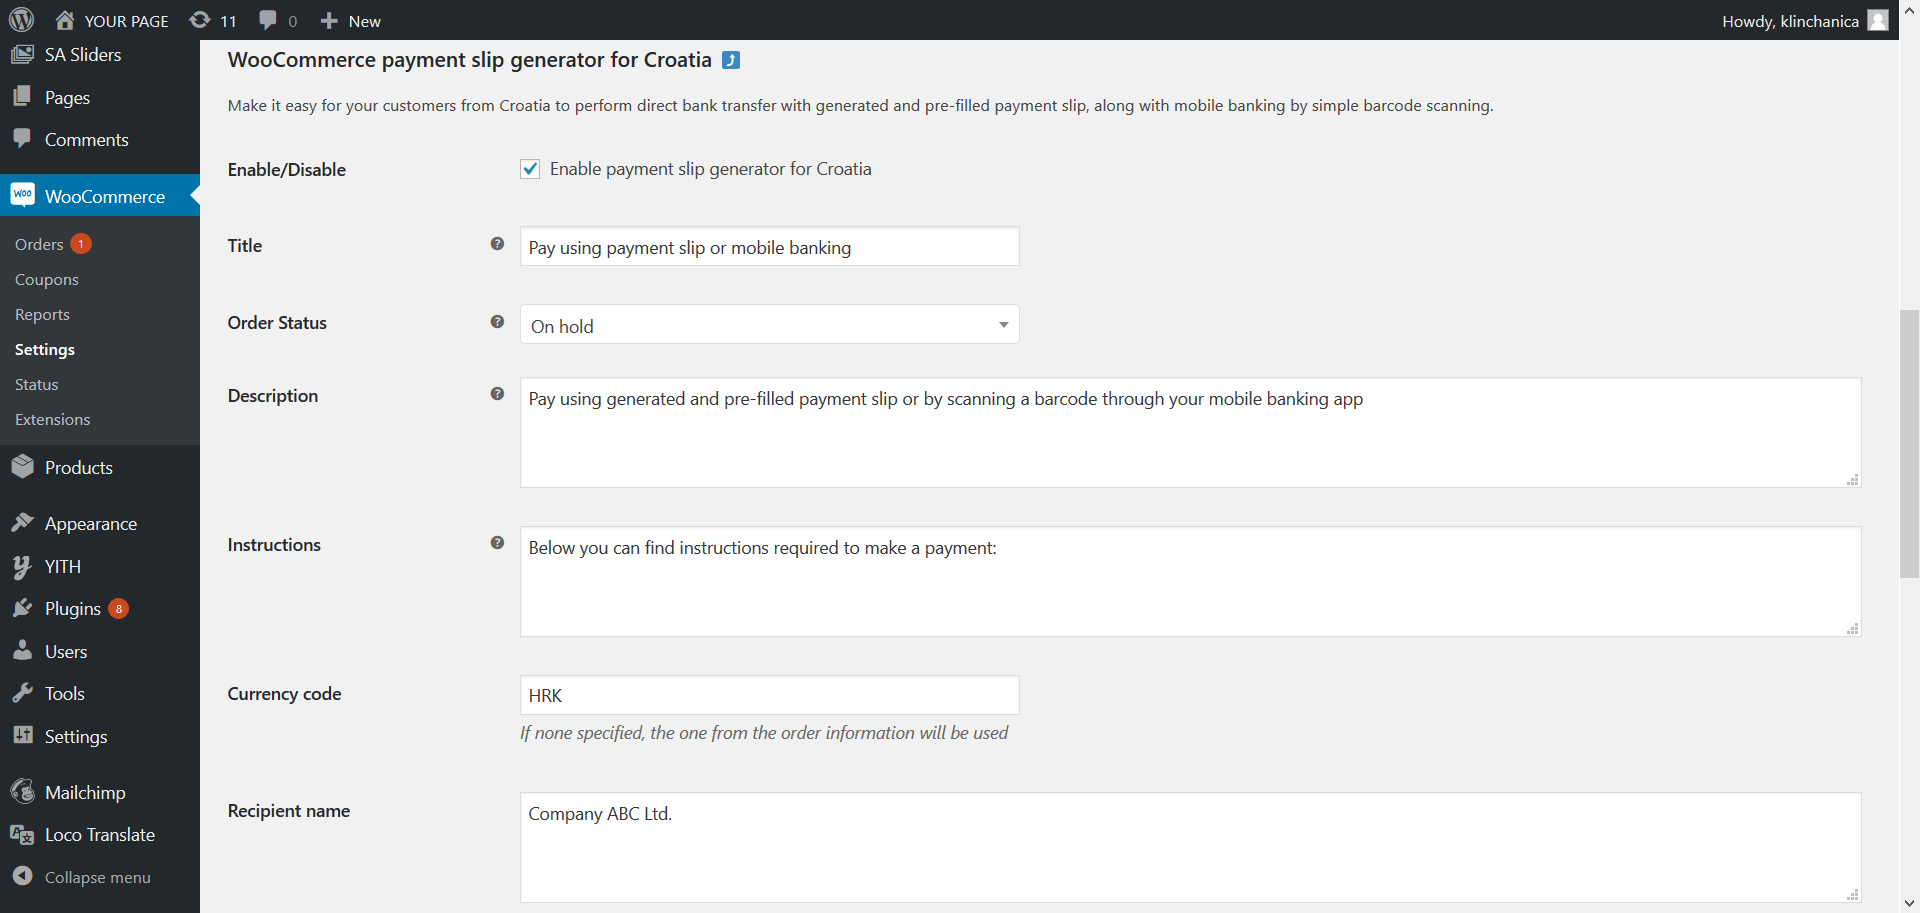
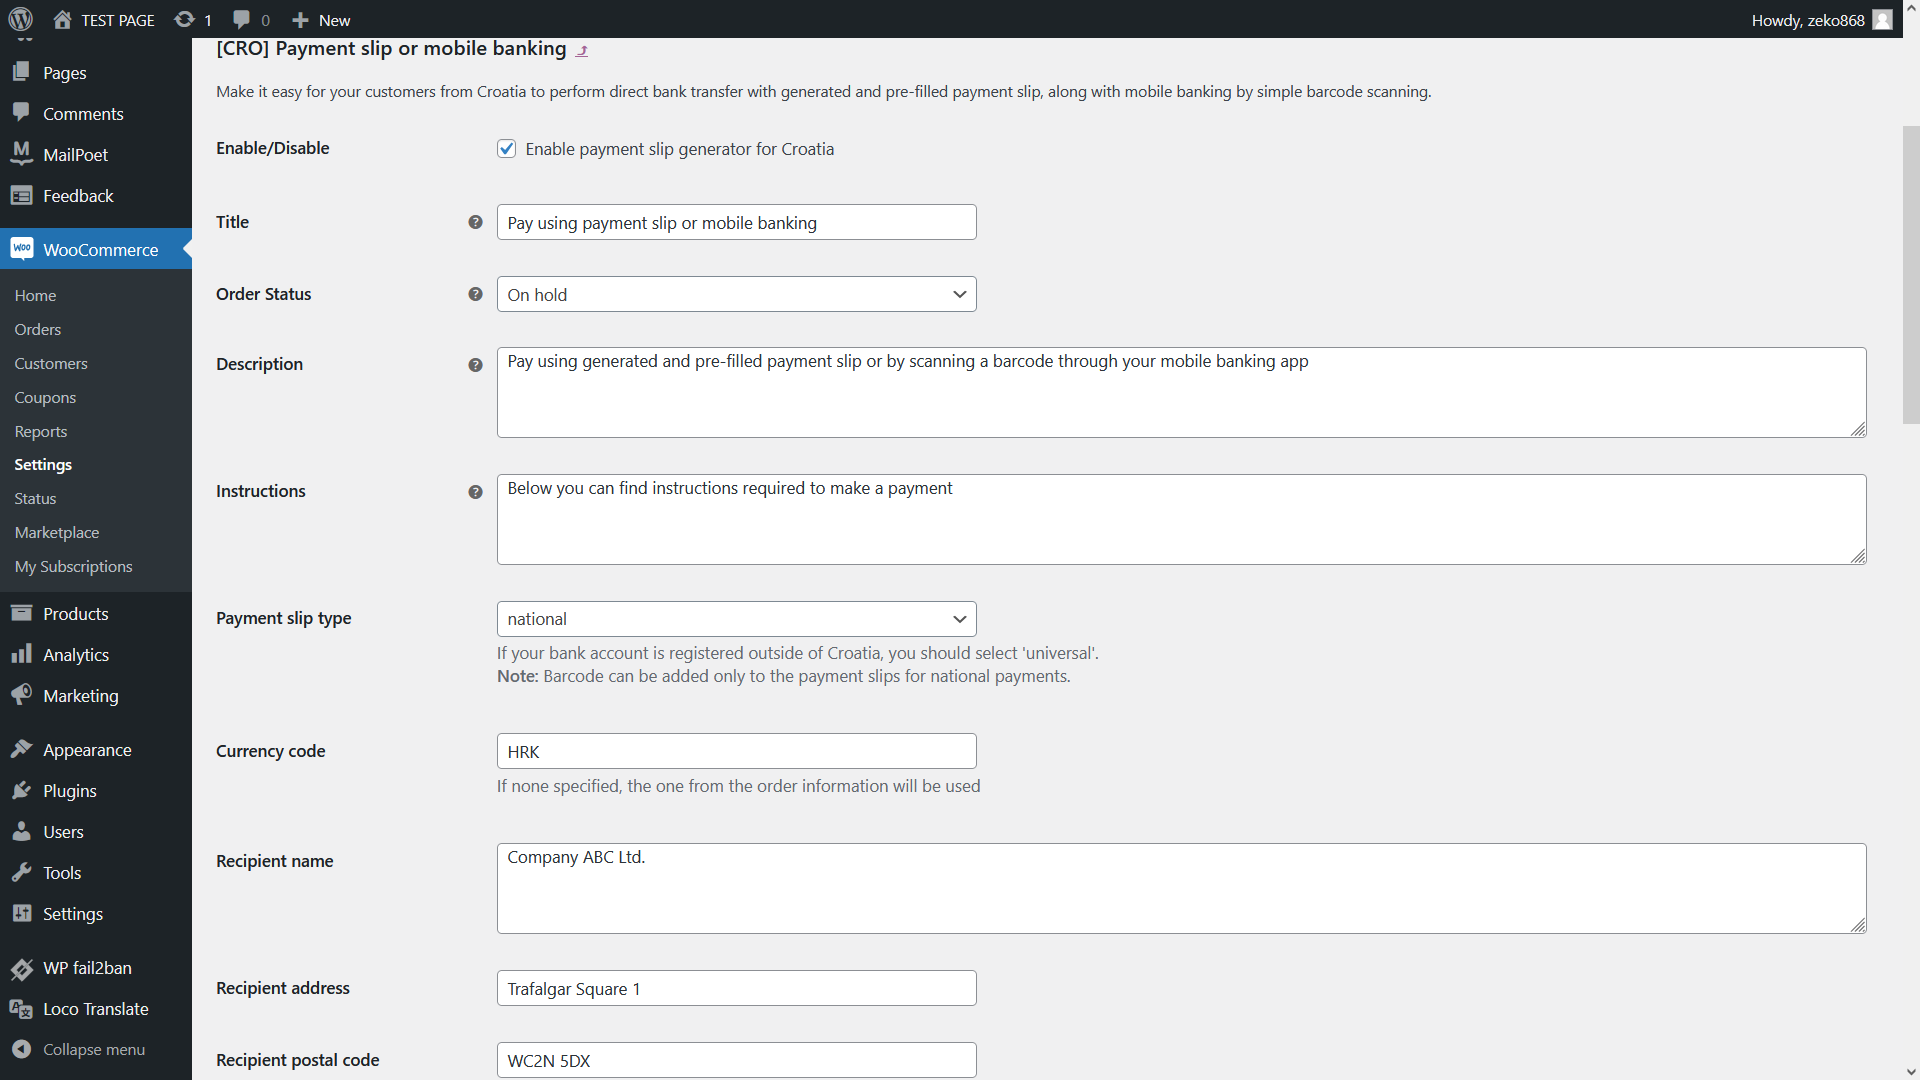
Update plugin screenshots and their references from README files

diff --git a/README.hr.md b/README.hr.md
@@ -40,10 +40,11 @@ Ovo poglavlje opisuje kako instalirati ovaj modul te ga osposobiti za korištenj
 Novi način plaćanja se prikazuje na stranici za plaćanje te ga je tako ujedno moguće i odabrati<br/>
 ![opcije plaćanja na stranici za plaćanje](/images/screenshot-1.png)<br/>
 Nakon što korisnik odabere ovaj način plaćanja te nastavi dalje na plaćanje, prikazuje mu se popunjena opća uplatnica - kako s podacima o platitelju, tako i o njemu samome i o samoj narudžbi. Slika te iste uplatnice se ujedno šalje i na korisnikovu e-mail adresu<br/>
-![prikaz opće uplatnice s barkodom](/images/screenshot-2.png)<br/>
+![prikaz opće uplatnice s barkodom](/images/screenshot-2.gif)<br/>
 Sva polja opće uplatnice (kao i razne druge postavke modula) se mogu podesiti na stranici za upravljanje/postavke ovog načina plaćanja, a koji se nalazi unutar WooCommerce upravljačke ploče
 ![mogućnosti konfiguracije opcije plaćanja ovog dodatka 1. dio](/images/screenshot-3.png)<br/>
 ![mogućnosti konfiguracije opcije plaćanja ovog dodatka 2. dio](/images/screenshot-4.png)<br/>
+![mogućnosti konfiguracije opcije plaćanja ovog dodatka 3. dio](/images/screenshot-5.png)<br/>
 
 
 ## Najčešće postavljena pitanja

diff --git a/README.md b/README.md
@@ -40,10 +40,11 @@ This section describes how to install the plugin and get it working.
 Additional payment option is displayed on the checkout page and can be selected<br/>
 ![payment option on checkout page](/images/screenshot-1.png)<br/>
 After user selects that option and proceeds to the payment, image of the payment slip, filled with previously-entered customer's data, is being shown. The same image is also sent to the customer via Email<br/>
-![payment slip and barcode preview](/images/screenshot-2.png)<br/>
+![payment slip and barcode preview](/images/screenshot-2.gif)<br/>
 All fields (along with various other properties) can be set through settings page of this payment gateway that is located within WooCommerce Admin Dashboard
 ![payment option settings part 1](/images/screenshot-3.png)<br/>
 ![payment option settings part 2](/images/screenshot-4.png)<br/>
+![payment option settings part 3](/images/screenshot-5.png)<br/>
 
 
 ## Frequently Asked Questions
